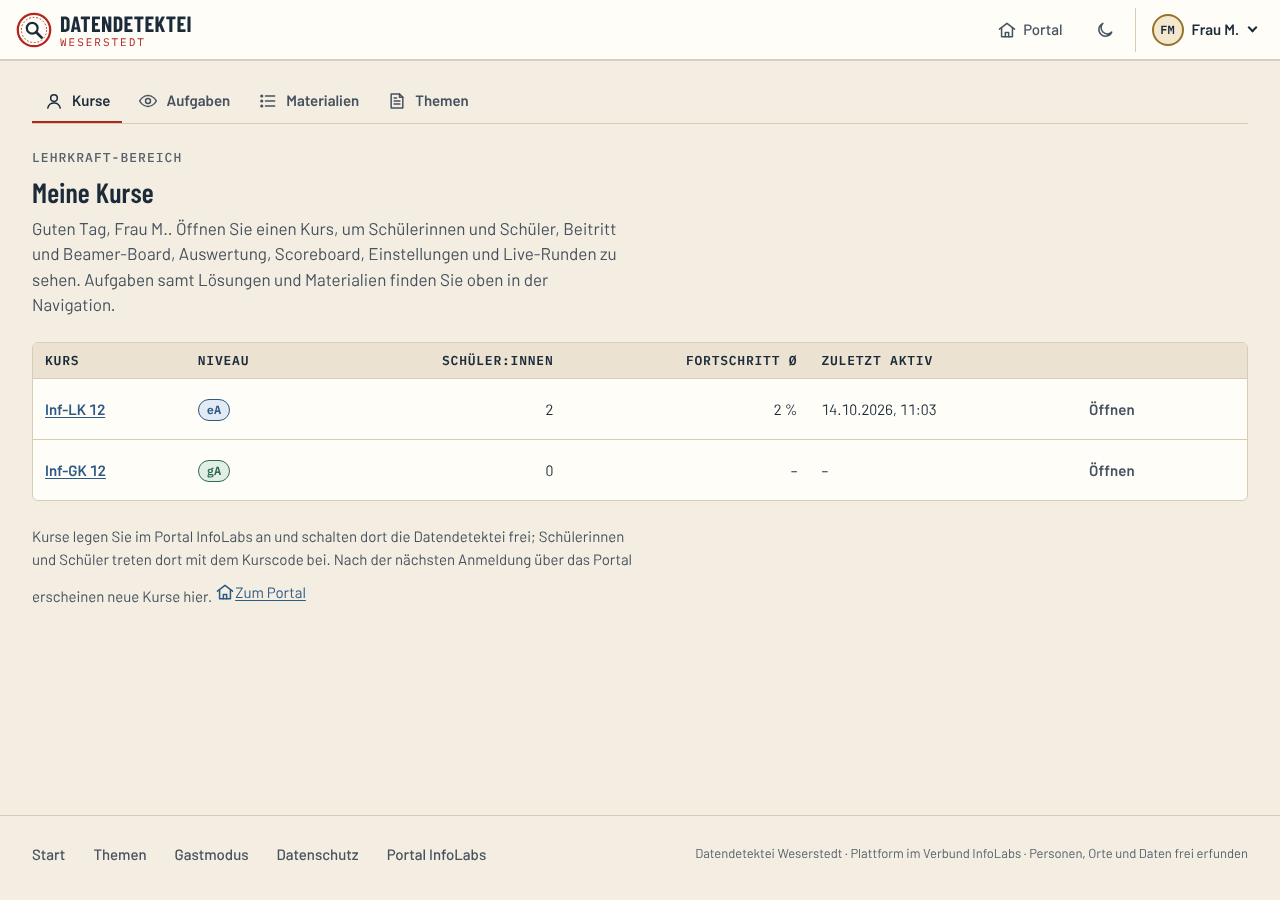
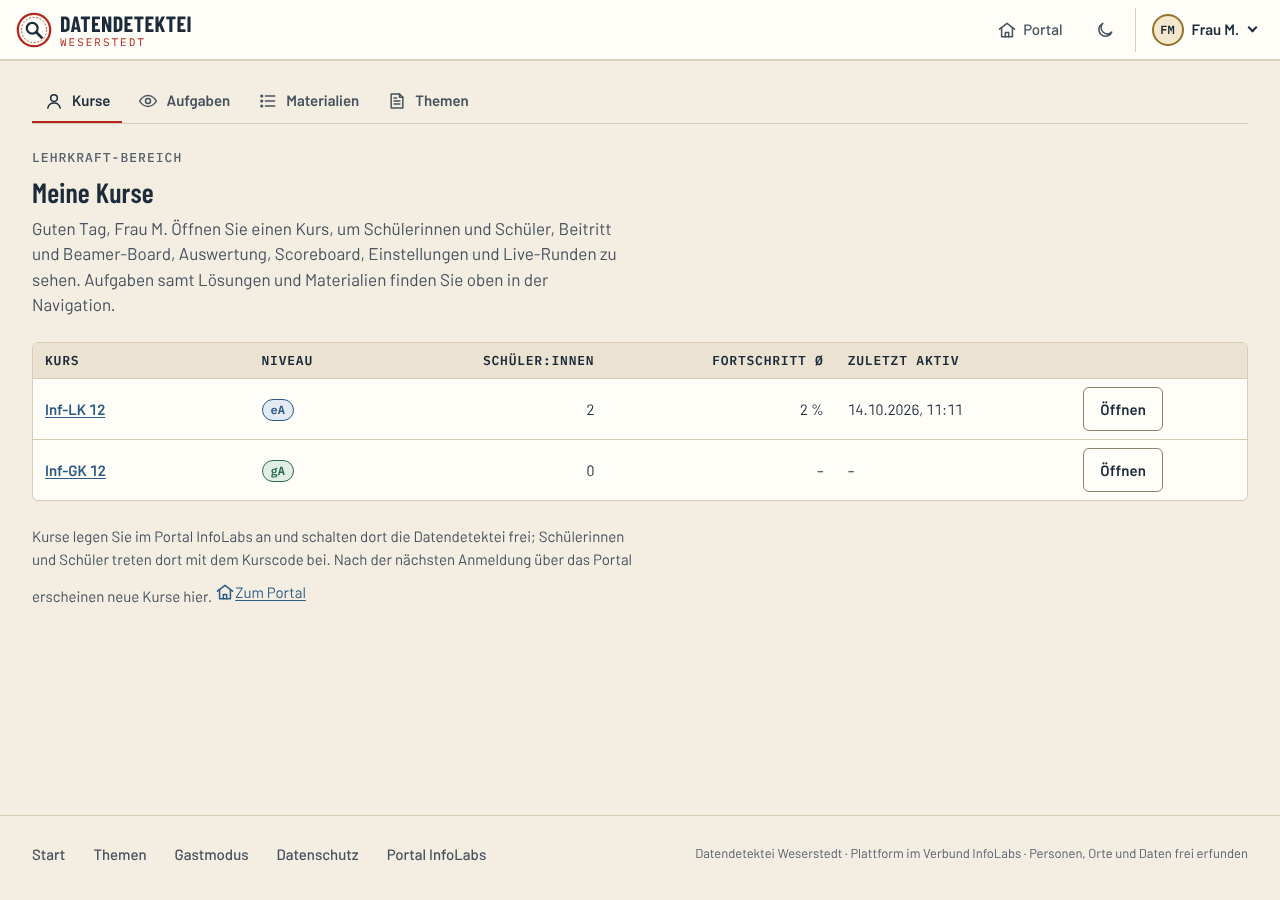
Doku: Lehrkraft-Bereich wie Algo Quest (Anleitung nach Navigation, README, CLAUDE.md, DESIGN §5.11), Screenshots
Claude-Session: https://claude.ai/code/session_011AnrXShdxopZcriy7nmq9X

diff --git a/docs/ANLEITUNG_LEHRKRAFT.md b/docs/ANLEITUNG_LEHRKRAFT.md
@@ -16,9 +16,43 @@ Datendetektei statt.
 4. **Mitlehrkräfte** laden Sie im Portal zum Kurs ein; sie sehen dann denselben Kurs in der Datendetektei.
 
 Schüler:innen öffnen danach im Portal *Meine Plattformen → Weiter zur Datendetektei*. Sie selbst gelangen über
-*Plattformen → Datendetektei* in den Lehrkraft-Bereich.
+*Plattformen → Datendetektei* in den Lehrkraft-Bereich (Abschnitt 2).
 
-## 2. Kurs einstellen (Lehrkraft-Bereich, Reiter „Einstellungen“)
+## 2. Aufbau des Lehrkraft-Bereichs
+
+Der Lehrkraft-Bereich (`/lehrkraft`) ist aufgebaut wie in **Algo Quest** – wer sich dort auskennt, findet sich sofort
+zurecht. Oben steht die Navigation:
+
+| Navigation | Inhalt |
+|---|---|
+| **Kurse** | Startseite „Meine Kurse“ (Admin: „Alle Kurse“): Tabelle mit Niveau, Zahl der Schüler:innen, Ø Fortschritt und „zuletzt aktiv“. *Öffnen* führt zur Kursseite. |
+| **Aufgaben** | Alle Akten als Karten → Akte mit Ermittlungen und Verhör-Pool → Aufgabe mit Lösung, Erklärung und allen Tipps (kursunabhängig, Niveau an jeder Aufgabe). |
+| **Materialien** | Arbeitsblätter, Lösungen, Präsentationen, Lehrerhinweise und Prüfungen als PDF, nach Akten sortiert. |
+| **Themen** | Öffentliche Themenseite (Inhalte und Kompetenzen der Einheit). |
+| **Verwaltung** | Nur für die Administration: Inhalte prüfen und neu laden, Sicherung. |
+
+Portal-Link, Hell/Dunkel und Ihr Name mit *Abmelden* bzw. *Überall abmelden* stehen in der Kopfzeile. Jede Seite hat
+eine eigene Adresse (z. B. `/lehrkraft#/kurs/k%3A17/auswertung`) – Lesezeichen und der Zurück-Knopf des Browsers
+funktionieren. Kurse selbst legen Sie im Portal an; nach der nächsten Anmeldung über das Portal erscheinen sie hier.
+
+## 3. Die Kursseite
+
+Kopf: Brotkrumen *Kurse › Kursname*, Kursname mit Niveau, rechts die Knöpfe **Urkunden** und **Live-Runde**, darunter
+die Kennzahlen. Reiter (gleiche Reihenfolge wie in Algo Quest, *Live* zusätzlich am Ende):
+
+| Reiter | Inhalt |
+|---|---|
+| **Schüler** | Schüler:innen mit Platz, Rang, Punkten, Anteil und „zuletzt aktiv“; Akten-Fortschritt des Kurses; Link zur Schüleransicht (Vorschau). Namen und Codes ändern Sie im Portal. |
+| **Beitritt** | Beitritt läuft über das Portal (Kurscode des Portals). Darunter das **Beamer-Board**: einschalten, Link kopieren/öffnen, neuen Link erzeugen, Vorschau. |
+| **Auswertung** | Siehe Abschnitt 5. |
+| **Scoreboard** | Rangliste des Kurses (die besten 10) wie auf der Schülerseite „Rangliste“, mit Hinweis, ob sie für Schüler:innen sichtbar ist. |
+| **Einstellungen** | Akten, Niveau, Verhöre, Scoreboard und Beamer-Board (Tabelle unten). |
+| **Live** | Live-Runden (Duell, Escape Room) für diesen Kurs. |
+
+**Urkunden:** Der Knopf öffnet die Druckseite „Detektei-Lizenz“ – eine A4-Seite je Schüler:in, Auswahl ab einem Rang,
+Datum und Unterschriftszeile. Im Browser drucken bzw. als PDF speichern.
+
+### Einstellungen
 
 | Einstellung | Wirkung | Standard |
 |---|---|---|
@@ -30,37 +64,37 @@ Schüler:innen öffnen danach im Portal *Meine Plattformen → Weiter zur Datend
 
 Änderungen wirken sofort; Schüler:innen sehen sie beim nächsten Seitenaufruf.
 
-## 3. Im Unterricht
+## 4. Im Unterricht
 
 - **Ermittlungen (Lab):** Schüler:innen lösen Aufgaben in der Ermittlungskonsole; geprüft wird auf dem Server gegen
   versteckte Randfall-Datenbanken. Tipps kosten Punkte, „Lösung zeigen“ gibt 0 Punkte.
 - **Verhöre:** zeitbegrenzte Abschlussprüfung je Akte im Abitur-Stil (gesiezt); Beweisstück auf der Pinnwand.
 - **Warm-up** (5 Minuten zu Stundenbeginn) und **Trainingsplatz** (zufällige Übungen) laufen unabhängig von Akten.
-- **Live-Runde** (Reiter *Live* → *Neue Runde*): *Duell* (Quiz in Teams) oder *Escape Room* (Stationen mit Codes).
+- **Live-Runde** (Kursseite → Knopf *Live-Runde* bzw. Reiter *Live*): *Duell* (Quiz in Teams) oder *Escape Room* (Stationen mit Codes).
   Schüler:innen treten unter `/live` bei; die Beamer-Ansicht öffnen Sie aus der Steuerung. Antworten werden nach
   Rundenende verworfen. Benötigt eine stabile WLAN-Verbindung (Server-Sent Events).
 - **Werkzeuge ohne Anmeldung** (z. B. für die Tafel): `/werkzeug/bauplan` (ER-Diagramm), `/werkzeug/werkbank`
   (Relationenschema), `/werkzeug/zeitlupe?db=eisdiele`, `/konsole/eisdiele`.
 
-## 4. Auswertung (Reiter „Auswertung“)
+## 5. Auswertung (Kursseite, Reiter „Auswertung“)
 
 - **Matrix** Schüler:in × Ermittlung: Punkte, Fehlversuche, Tipps; Verhöre mit Ergebnis.
 - **Fallen-Profil P1–P10:** Welche typischen Fehler (z. B. P1 WHERE ↔ HAVING, P2 fehlender Verbund) im Kurs gehäuft
   auftreten – Grundlage für das nächste Warm-up oder eine Wiederholung.
 - **Häufige Fehlabfragen** je Aufgabe (ohne Namen, gezählt) – gut für eine Fehlerbesprechung am Beamer.
 - **CSV-Export** (ohne interne Kennungen) für die eigene Unterlage. Die Ergebnisse sind Übungsstände, keine Noten.
-- **Vorschau:** alle Aufgaben mit Tipps und Lösungen, auch gesperrte Akten – zur Unterrichtsvorbereitung.
 
-## 5. Materialien (Reiter „Materialien“)
+## 6. Aufgaben und Materialien (Navigation oben)
 
-Arbeitsblätter (Schülerfassung), Lösungen, Präsentationen mit Notizen, Lehrerhinweise, Unplugged-Vorlagen,
-Warm-up-Karten, Generalprobe und Klausuren mit Erwartungshorizonten als PDF; einzeln oder als ZIP. Schüler:innen sehen
-in ihrem Bereich nur die Schülerfassungen. Die bearbeitbaren Originale (docx/pptx) gibt es für die Administration.
-
-## 6. Urkunden
-
-*Lehrkraft-Bereich → Urkunden*: Druckseite „Detektei-Lizenz“, eine A4-Seite je Schüler:in, Auswahl ab einem Rang.
-Im Browser drucken bzw. als PDF speichern.
+- **Aufgaben:** alle Aufgaben mit Tipps und Lösungen, auch aus Akten, die Ihr Kurs noch nicht sieht – zur
+  Unterrichtsvorbereitung. Die Aufgabe erscheint wie bei den Schüler:innen (ohne Prüfen); *Lösung in die Aufgabe
+  eintragen* füllt sie aus. Mit *vorherige/nächste Aufgabe* blättern Sie innerhalb einer Ermittlung.
+- **Materialien:** Arbeitsblätter (Schülerfassung), Lösungen, Präsentationen mit Notizen, Lehrerhinweise,
+  Unplugged-Vorlagen, Warm-up-Karten, Generalprobe und Klausuren mit Erwartungshorizonten als PDF; Material nur für
+  eA bzw. gA ist markiert. Schüler:innen sehen in ihrem Bereich nur die Schülerfassungen. Die bearbeitbaren Originale
+  (docx/pptx, einzeln oder als ZIP) gibt es für die Administration.
+- **Verwaltung** (nur Administration): Reiter *Inhalte* (geladene Akten, Fehler, neu laden, Originale als ZIP) und
+  *Sicherung* (Plattform-Datenbank herunterladen).
 
 ## 7. Datenschutz in Kürze
 
@@ -76,7 +110,7 @@ Im Browser drucken bzw. als PDF speichern.
 | Problem | Lösung |
 |---|---|
 | Schüler:in sieht „keine Berechtigung“ | Ist die Datendetektei im Portal für den Kurs angekreuzt? |
-| Akte fehlt | Reiter *Einstellungen → Akten*; bei gA sind eA-Inhalte ausgeblendet. |
+| Akte fehlt | Kursseite → Reiter *Einstellungen → Akten*; bei gA sind eA-Inhalte ausgeblendet. |
 | Verhör gesperrt | Modus *automatisch* verlangt 60 % der Ermittlungspunkte; sonst auf *offen* stellen. |
 | Konsole „Ausführen“ langsam | Schulnetz sperrt evtl. WebAssembly – dann rechnet der Server; „Prüfen“ läuft immer serverseitig. |
 | Live-Runde hängt | Seite neu laden; die Verbindung baut sich wieder auf. Bleibt es dabei, WLAN/Proxy prüfen (Server-Sent Events). |

diff --git a/docs/DESIGN.md b/docs/DESIGN.md
@@ -671,6 +671,16 @@ Auflösung, Steckbrief-Stempel „ENTTARNT“ und Überleitung zur Erörterung.
 - **Einstellungen:** Niveau eA/gA (gA blendet Akte 5 aus: Zeile ausgegraut, Schalter deaktiviert, „bei gA
   ausgeblendet“), Akten-Schalter, Verhöre automatisch ab 60 % / offen / gesperrt, Scoreboard, Beamer-Board, Board-Link.
 - Weitere Reiter (Phase 6): Aufgabenstatistik, häufige Fehlabfragen (anonym), Vorschau, Live, Urkunden, Materialien.
+- **Aufbau des Lehrkraft-Bereichs wie Algo Quest (Phase 8, Auftrag Frank):** Lehrkräfte arbeiten in mehreren Labs
+  des Verbunds InfoLabs; derselbe Aufbau sorgt für Wiedererkennung, das Design bleibt „Akten-Noir“. Kopf-Navigation
+  (Stil `lern-nav`, `aria-current="page"`, scrollt auf dem Smartphone in sich) **Kurse · Aufgaben · Materialien ·
+  Themen · Verwaltung** (nur Superadmin; Begriffe und Reihenfolge wie Algo Quest). Start `#/` = Tabelle „Meine Kurse“
+  bzw. „Alle Kurse“ (Kurs · Niveau · Schüler:innen · Fortschritt Ø · zuletzt aktiv · Öffnen) mit Hinweis aufs Portal.
+  Kursseite `#/kurs/<id>/<reiter>`: Brotkrumen „Kurse › Name“, h1 mit Niveau-Etikett, rechts Knöpfe Urkunden und
+  Live-Runde, Kennzahlen, Reiter **Schüler · Beitritt · Auswertung · Scoreboard · Einstellungen** (wie Algo Quest) und
+  **Live** am Ende (gemeinsame Reiter behalten ihre Position). Beitritt = Portal-Hinweis + Beamer-Board. Aufgaben:
+  Akten-Karten (Akten-Farbe als linker Rand) → Akte mit Tabellen je Ermittlung und Verhör-Pool → Aufgabe mit Lösung,
+  Tipps, vorherige/nächste. Verwaltung mit Reitern Inhalte und Sicherung. Hash-Routing: Zurück-Knopf und Deep-Links.
 
 ### 5.12 Beamer-Board (`/board/:schluessel`, 1920 × 1080)
 ```

diff --git a/README.md b/README.md
@@ -78,7 +78,7 @@ Verstehens- und Modellierungswerkzeuge: `/werkzeug/zeitlupe`, `/werkzeug/spurenb
 | `/rangliste` | Rangliste des Kurses (Scoreboard, Standard für neue Kurse an): Top 10 + eigener Platz; ausgeschaltet → Hinweis für Schüler:innen, Vorschau für Lehrkräfte; Link „Rangliste“ in der Lern-Navigation nur bei eingeschaltetem Scoreboard (Lehrkräfte immer) |
 | `/pinnwand` | Beweisstücke der gewonnenen Verhöre, Indizienkette des Plädoyers, Steckbrief des Phantoms |
 | `/live` | Live-Runde beitreten (Duell, Escape Room) |
-| `/lehrkraft` | Lehrkraft-Bereich: Übersicht, Einstellungen, Auswertung (Matrix, Fallen-Profil, CSV), Vorschau mit Lösungen, Live, Board, Urkunden, Materialien; Superadmin zusätzlich System |
+| `/lehrkraft` | Lehrkraft-Bereich, Aufbau wie Algo Quest: Kopf-Navigation Kurse · Aufgaben · Materialien · Themen · Verwaltung (nur Superadmin); `#/` Kursliste, `#/kurs/<id>/<reiter>` Kursseite mit Reitern Schüler · Beitritt (inkl. Beamer-Board) · Auswertung (Matrix, Fallen-Profil, CSV) · Scoreboard · Einstellungen · Live und Knopf Urkunden; `#/aufgaben` Aufgaben mit Lösungen; `#/materialien`; `#/verwaltung/inhalte`, `…/sicherung` |
 | `/lehrkraft/live`, `/live/<runde>/beamer` | Live-Steuerung und Beamer-Ansicht (nur Lehrkraft) |
 | `/lehrkraft/urkunden` | Druckseite „Detektei-Lizenz“ (eine A4-Seite je Schüler:in) |
 | `/board/<schlüssel>` | Beamer-Board ohne Anmeldung (Rangliste, Akten-Fortschritt, letzte Erfolge; nur Anzeigenamen) |

diff --git a/CLAUDE.md b/CLAUDE.md
@@ -107,8 +107,11 @@ Verzeichnisse mitcommitten. Neue Materialien immer über `seed/arbeitsblaetter.j
 Link-Knopf, kein Embed). Sichtprüfung der Phase 7: `docs/screenshots/phase7/`.
 
 Seiten (Phase 6): `/pinnwand` (Beweisstücke, Indizienkette des Schlussplädoyers, Steckbrief nach Regel E10),
-`/live` (Live-Runde beitreten), `/lehrkraft` (Reiter Übersicht, Einstellungen, Auswertung, Vorschau, Live, Board,
-Urkunden, Materialien; Superadmin zusätzlich System), `/lehrkraft/live` + `/live/<runde>/beamer` (Steuerung, Beamer),
+`/live` (Live-Runde beitreten), `/lehrkraft` (Aufbau wie Algo Quest, Hash-Routen: Kopf-Navigation Kurse · Aufgaben ·
+Materialien · Themen · Verwaltung (nur Superadmin); `#/` Kursliste, `#/kurs/<id>/<reiter>` mit Schüler · Beitritt
+(+ Beamer-Board) · Auswertung · Scoreboard · Einstellungen · Live und Knopf Urkunden; `#/aufgaben…` kursunabhängig über
+`/api/lehrkraft/vorschau`; `#/materialien`; `#/verwaltung/inhalte|sicherung`; alte `?kurs=…#reiter`-Adressen werden
+umgeleitet), `/lehrkraft/live` + `/live/<runde>/beamer` (Steuerung, Beamer),
 `/lehrkraft/urkunden` (Druckseite), `/board/<schlüssel>` (Beamer-Board ohne Anmeldung, immer dunkel, nur Anzeigenamen),
 `/rangliste` (Phase 8: Rangliste des Kurses, Kurseinstellung `scoreboard`, Standard für neue Kurse an; Link in der
 `lern-nav` aller Lernseiten, für Schüler:innen nur bei eingeschaltetem Schalter – `kopfzeile.js` aus `/api/ich`).
